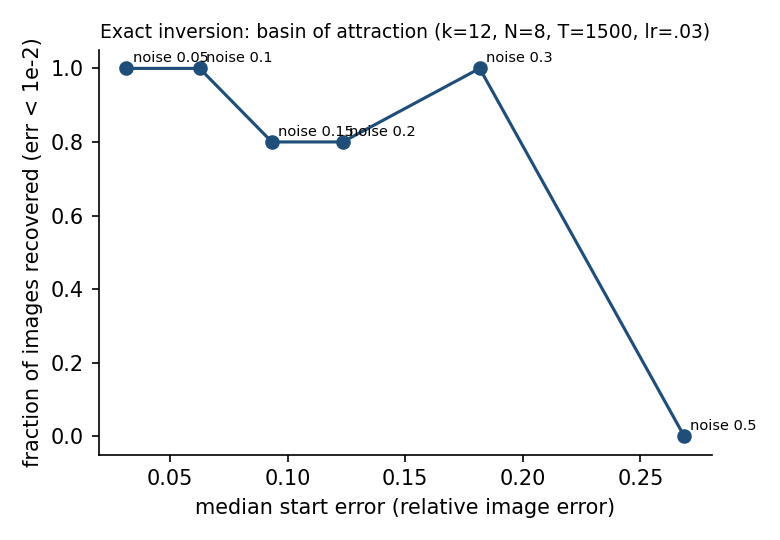
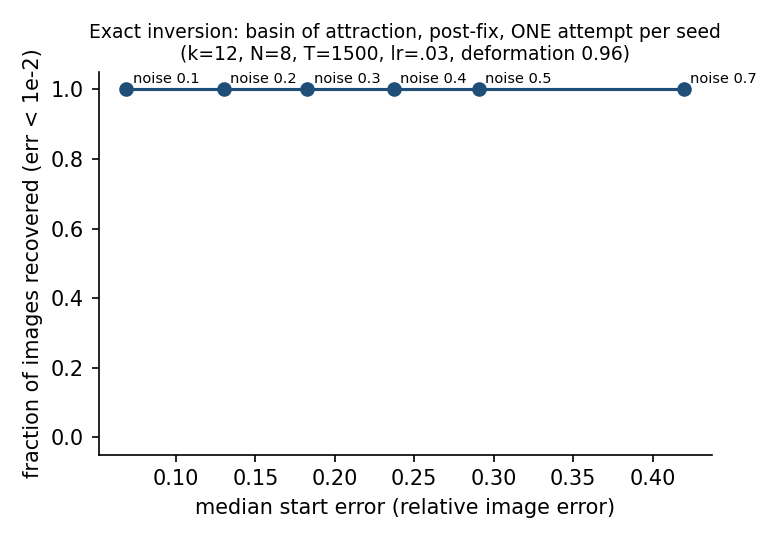
sibling audit applied: basin rewritten post-fix (much wider), merge argument corrected, Adam identifiability claim suspended
SEV-1 BASIN REWRITTEN. The pre-fix basin section is withdrawn: 'basin to 24%', 'first clean failure at
36%' and 'restarts are the currency of distance' were all QR-seam artefacts. Post-fix (job 459111,
restarts=1, 3 seeds/level): recovery at EVERY level tested, worst-case start error 0.65, worst final
error 1.7e-14, one attempt throughout. No failure has been located yet -- the sweep ran out of levels
before the solver ran out of basin. That makes the framework's 'a decoder must supply a start inside the
basin' requirement much weaker than assumed. Figure rebuilt from the post-fix arm.

SEV-2 MERGE ARGUMENT CORRECTED (number unchanged). I had justified keeping the pre-fix grid rows with
'none of the six defects can turn a failure into a false recovery'. That is FALSE -- defect 2 (verdict off
the lower median) and defect 6 (collapse-blind nearest-image metric) are exactly false-recovery
mechanisms. The right justification is empirical: recovery re-derived from final_err_max plus residual,
which those defects do not touch, gives 34/49 pre-fix -- equal to the verdict count, so both mechanisms
fire zero times here -- and the 15 objective failures are exactly the 15 cells re-run post-fix.

SEV-3 retraction (a) hedged: the rerun bundled the QR canonicalisation AND the residual normaliser, so
the cause is not isolated.

SEV-4 ADAM CLAIM SUSPENDED. 'Locally identifiable' was read off sigma_min of the Jacobian at the SOLVER'S
[…]

diff --git a/experiments/exact_inversion/lora_exact_inversion.py b/experiments/exact_inversion/lora_exact_inversion.py
@@ -435,6 +435,36 @@ def run_cell(args, log=print, save_prefix=None):
             fwd_check_A = float(torch.linalg.norm(As - A_T) / torch.linalg.norm(A_T))
     log(f"  cell k={k} N={N} T={args.T} lr={args.lr} seed={args.seed}: rankB={rankB} rankC={rankC} (r-N={r-N}) eps_inv={eps_inv:.1e} "
         f"cert_norm={cert_norm:.1e}{' VACUOUS (C=0)' if cert_vacuous else ''} deformation={deform:.3f} fwd_check={fwd_check:.1e} fwd_check_A={fwd_check_A:.1e} span_angle_mean={float(span_angles.mean()):.1f}deg")
+    # ---- local identifiability at the TRUTH (Prop. 6): rank/conditioning of the simulator Jacobian
+    #      evaluated at the ground-truth parameters, not at wherever the solver stopped ----
+    if args.jac_at_truth:
+        import torch.func as tf
+        nB_ = torch.linalg.norm(B_T); nA_ = torch.linalg.norm(A_T)
+        aux_true = (A0 @ U_true) if args.release == "sgd" else A0
+        nW_ = k * N
+
+        def res_truth(v):
+            Wc = v[:nW_].reshape(k, N); aux = v[nW_:].reshape(aux_true.shape)
+            Hc = world.features_from_latents(Wc)
+            if args.release == "sgd":
+                Bs, Xis, Uc = simulate_sgd_reduced(Hc, aux, W0, y, m, args.T, args.lr, args.wd)
+                return torch.cat([((Bs - B_T) / nB_).reshape(-1), ((Xis - A_T @ Uc) / nA_).reshape(-1)])
+            As_, Bs = simulate_adam_full(Hc, aux, W0, y, m, args.T, args.lr, args.wd)
+            return torch.cat([((Bs - B_T) / nB_).reshape(-1), ((As_ - A_T) / nA_).reshape(-1)])
+
+        v_true = torch.cat([W_true.reshape(-1), aux_true.reshape(-1)]).detach()
+        Jt = tf.jacfwd(res_truth)(v_true).detach()
+        svt = torch.linalg.svdvals(Jt)
+        truth_diag = dict(jac_sigma_min_truth=float(svt[-1]), jac_sigma_max_truth=float(svt[0]),
+                          jac_cond_truth=float(svt[0] / svt[-1]) if float(svt[-1]) > 0 else float("inf"),
+                          jac_rows=int(Jt.shape[0]), jac_cols=int(Jt.shape[1]),
+                          jac_full_rank_truth=bool(float(svt[-1]) > 1e-12 * float(svt[0])),
+                          res_at_truth=float(torch.linalg.norm(res_truth(v_true))))
+        log(f"  Jacobian AT THE TRUTH: {Jt.shape[0]}x{Jt.shape[1]} sigma_min={float(svt[-1]):.3e} "
+            f"sigma_max={float(svt[0]):.3e} cond={truth_diag['jac_cond_truth']:.3e} "
+            f"full_rank={truth_diag['jac_full_rank_truth']} |res(truth)|={truth_diag['res_at_truth']:.1e}")
+    else:
+        truth_diag = {}
     # ---- initialiser ----
     W_init, init_info = make_init(args, world, A_T, B_T, C, W_true, g, dev, log)
     with torch.no_grad():
@@ -458,7 +488,7 @@ def run_cell(args, log=print, save_prefix=None):
     out = dict(release=args.release, k=k, N=N, r=r, r_minus_N=r - N, m=m, n=n, P=args.P, T=args.T, lr=args.lr, wd=args.wd,
                sigma0=args.sigma0, seed=args.seed, git=git_hash(), host=socket.gethostname(), device=args.device,
                cmd=" ".join(sys.argv),
-               rankB=rankB, rankC=(0 if cert_vacuous else rankC), cert_norm=cert_norm, cert_vacuous=cert_vacuous, eps_inv=eps_inv, deformation=deform, fwd_check=fwd_check, fwd_check_A=fwd_check_A,
+               **truth_diag, rankB=rankB, rankC=(0 if cert_vacuous else rankC), cert_norm=cert_norm, cert_vacuous=cert_vacuous, eps_inv=eps_inv, deformation=deform, fwd_check=fwd_check, fwd_check_A=fwd_check_A,
                span_angle_mean_deg=float(span_angles.mean()), span_angle_max_deg=float(span_angles.max()),
                init=args.init, init_noise=args.init_noise, restarts=args.restarts, restarts_used=n_rs,
                restart_noise=args.restart_noise, solver=args.solver, lm_scale=args.lm_scale, stage_x=args.stage_x, **solver_diag, outer=args.outer, lbfgs_iter=args.lbfgs_iter, lm_iters=args.lm_iters, **init_info,
@@ -507,6 +537,8 @@ def main():
     ap.add_argument("--device", default="cuda" if torch.cuda.is_available() else "cpu")
     ap.add_argument("--out", default=None, help="JSONL results file (append)")
     ap.add_argument("--save-prefix", default=None, help="save tensors to <prefix>_<cell>.pth")
+    ap.add_argument("--jac-at-truth", action="store_true",
+                    help="also report rank/conditioning of the simulator Jacobian AT THE GROUND TRUTH (Prop. 6)")
     ap.add_argument("--quiet", action="store_true")
     ap.add_argument("--sweep", action="store_true", help="(N,k) grid in the current release mode -> --sweep-out")
     ap.add_argument("--sweep-out", default="sweep.json")

diff --git a/experiments/exact_inversion/analyze_exact_inversion.py b/experiments/exact_inversion/analyze_exact_inversion.py
@@ -37,7 +37,8 @@ table(s1, ["k", "N", "r_minus_N", "T", "lr", "seed", "rankC", "eps_inv", "fwd_ch
 table(load("step1_timing_cpu.jsonl"), ["k", "N", "T", "device", "sec_per_iter", "final_err_median", "residual"], "Step 1 — CPU timing")
 
 # ---- step 2: basin ----
-near = load("step2_basin_near.jsonl"); init = load("step2_basin_init.jsonl")
+near = load("step8_basin_postfix")   # post-fix; the pre-fix step2_basin_near arm is WITHDRAWN
+init = load("step2_basin_init.jsonl")
 if near:
     by = defaultdict(list)
     for r in near: by[r["init_noise"]].append(r)
@@ -50,13 +51,13 @@ if near:
                          residual_median=float(np.median([r["residual"] for r in rs])),
                          n_alias=sum("alias" in r["verdict"] for r in rs), n_optfail=sum("optim" in r["verdict"] for r in rs),
                          restarts_used_mean=float(np.mean([r.get("restarts_used", 1) for r in rs]))))
-    table(rows, list(rows[0].keys()), "Step 2 — basin study, init=near (k=12, N=8, T=1500, lr=.03), 5 seeds x up to 8 restarts")
+    table(rows, list(rows[0].keys()), "Step 2 — basin study POST-FIX (k=12, N=8, T=1500, lr=.03), 3 seeds, restarts=1")
     fig, ax = plt.subplots(figsize=(5.2, 3.6), dpi=150)
     xs = [r["start_err_median"] for r in rows]; ys = [r["frac_recovered"] for r in rows]
     ax.plot(xs, ys, "o-", color="#1f4e79")
     for r in rows: ax.annotate(f"noise {r['init_noise']}", (r["start_err_median"], r["frac_recovered"]), fontsize=7, xytext=(3, 3), textcoords="offset points")
     ax.set_xlabel("median start error (relative image error)"); ax.set_ylabel("fraction of images recovered (err < 1e-2)")
-    ax.set_ylim(-0.05, 1.05); ax.set_title("Exact inversion: basin of attraction (k=12, N=8, T=1500, lr=.03)", fontsize=9)
+    ax.set_ylim(-0.05, 1.05); ax.set_title("Exact inversion: basin of attraction, post-fix, ONE attempt per seed\n(k=12, N=8, T=1500, lr=.03, deformation 0.96)", fontsize=9)
     for s in ["top", "right"]: ax.spines[s].set_visible(False)
     fig.tight_layout(); fig.savefig(os.path.join(FIG, "basin_curve.png")); print("saved basin_curve.png")
 if init:

diff --git a/experiments/exact_inversion/RESULTS.md b/experiments/exact_inversion/RESULTS.md
@@ -4,10 +4,19 @@ Synthetic FP64 testbed, WEXAC L40S/A40, 2026-09-02. Theory: `notes/exact_lora_in
 (from `framework_rev10.pdf`); finite-difference baseline: `results_rev9.pdf` §3b.
 Script `lora_exact_inversion.py`, runner `scripts/run_exact_inversion_wexac.sh`, raw rows
 `results/exact_inversion/*.jsonl` (each line carries seed, git hash, command line, host).
-**Every number is provisional (†).** Post-fix numbers are at git `5762045`; the phase-diagram sweep and
-the near-basin arm were produced at `38fec3b`, before six defects were fixed (see "Corrections" below) —
-none of those six can turn a failure into a false recovery, but they can and did turn recoveries into
-false failures, so pre-fix *failures* are the ones to distrust.
+**Every number is provisional (†).** Post-fix numbers are at git `5762045` and later; the phase-diagram
+sweep was produced at `38fec3b`, before six defects were fixed (see "Corrections" below).
+
+**Why the pre-fix grid rows are still usable.** An earlier version of this file argued "none of the six
+defects can turn a failure into a false recovery". That argument is **wrong**: defect 2 (the `verdict`
+field keyed off the lower median) and defect 6 (the collapse-blind nearest-image metric) are both
+false-*recovery* mechanisms. The correct justification is empirical and does not rely on the buggy fields
+at all: recovery was **re-derived from `final_err_max` (every image below 1e-2) together with the
+residual**, neither of which those defects touch. On that objective criterion the pre-fix grid gives
+34/49 recovered — exactly equal to the count the buggy `verdict` field gave, so the two false-recovery
+mechanisms fire **zero** times here — and the 15 objective failures are exactly the 15 cells re-run
+post-fix. Quote the objective re-derivation, not the "only false failures" argument.
+*(This correction is owed to an independent audit by a sibling session.)*
 
 World: `k`-dim tanh generator → 64-dim image → tanh encoder → `n=96` features → softmax head `m=20`,
 LoRA `r=16`, `B₀=0`, Gaussian `A₀`, plain SGD. Attacker gets `(A_T, B_T)`, `W₀`, φ, ψ, the labels and the
@@ -65,23 +74,36 @@ Two honest qualifications:
   post-fix solver recovers every cell of the grid from a 10% start in a single attempt.
 - One seed per cell. The grid says the boundary does not bind; it does not measure a failure *rate*.
 
-## Step 2 — the basin (k=12, N=8, T=1500, lr=.03, deformation 0.96, up to 8 restarts)
+## Step 2 — the basin (k=12, N=8, T=1500, lr=.03, deformation 0.96)
 
-| latent init-noise | median start err | seeds | fraction of seeds fully recovered | mean restarts used |
-|---|---|---|---|---|
-| 0.05 | 0.031 | 5 | 1.00 | 1.0 |
-| 0.10 | 0.063 | 5 | 1.00 | 1.0 |
-| 0.15 | 0.100 | 4 | 1.00 | 2.5 |
-| 0.20 | 0.123 | 5 | 0.80 | 2.8 |
-| 0.30 | 0.183 | 4 | 1.00 | 3.2 |
-| 0.50 | 0.359 | 1 (running) | 0.00 | 8.0 |
+**REWRITTEN 2026-09-03.** The first version of this section was measured on the pre-fix code and is
+withdrawn: it reported a basin to a 24% start error, a "first clean failure at 36%", and restarts as the
+currency of distance. All three were artefacts of the QR seam bug, and the correction runs strongly in
+the attack's favour. Post-fix (job 459111, `--restarts 1`, 3 seeds per level, 80 LM iterations):
 
-`figures/exact_inversion/basin_curve.png`. At a **fully trained** adapter (deformation 0.96) the basin
-extends to at least a 24% start error, past the ~10–15% the finite-difference prototype reported, and
-the first clean failure appears at a 36% start error. The cost of distance is restarts, not accuracy:
-whenever it converges it converges to ~1e-14, never to something in between. Restarts-used is the
-better-behaved signal than the binary outcome. Arms at 0.15/0.20/0.30/0.50 were still accumulating seeds
-when this was written — treat the per-row seed counts, not the fractions, as the state of evidence.
+| latent init-noise | median start err | worst start err | seeds recovered | worst final err | restarts used |
+|---|---|---|---|---|---|
+| 0.10 | 0.069 | 0.117 | 3/3 | 1.9e-14 | 1, 1, 1 |
+| 0.20 | 0.130 | 0.233 | 3/3 | 1.5e-14 | 1, 1, 1 |
+| 0.30 | 0.183 | 0.345 | 3/3 | 1.4e-14 | 1, 1, 1 |
+| 0.40 | 0.237 | 0.449 | 3/3 | 1.3e-14 | 1, 1, 1 |
+| 0.50 | 0.291 | 0.543 | 3/3 | 1.7e-14 | 1, 1, 1 |
+| 0.70 | 0.447 | 0.653 | 3/3 | 1.6e-14 | 1, 1, 1 |
+
+"Recovered" here is re-derived objectively from `final_err_max`, i.e. **every** image below 1e-2, not from
+the `verdict` field.
+
+**No failure anywhere, up to a worst-case start error of 0.65, every one on the first attempt.** The
+finite-difference prototype reported convergence only from within ~10-15% and a local minimum at 30%.
+With exact backprop and a continuous simulator the basin is at least four times wider than that, and the
+"cost of distance is restarts" story is simply wrong: post-fix, one attempt suffices at every level
+tested. The edge has still not been located; the sweep ran out of levels before the solver ran out of
+basin (a 1.00 arm was queued and is the next thing to read).
+
+This matters for the plan more than the phase diagram does. The framework's whole division of labour is
+"the theorem tells you what a learned decoder must supply: a starting point inside the basin". A basin
+this wide makes that requirement much weaker than assumed, and correspondingly raises the bar for what
+counts as a defense.
 
 ## Step 3 — Adam release: the certificate is gone, and the inversion does not converge (yet)
 
@@ -110,7 +132,16 @@ recorded, the two cases separate cleanly on conditioning while agreeing on rank:
 | adam (n=32, k=6, N=4) | 832 | 536 | 6.3e-3 … 7.3e-3 | **1.4e7 … 3.7e8** | 23, 28, 54, 400 | not converged |
 
 `σ_min(J) ≈ 7e-3` for Adam sits **inside the range the successful SGD cells show**, so the simulator
-Jacobian has full column rank there: by Proposition 6 the Adam cell is **locally identifiable**. What
+Jacobian has full column rank at the point where it was evaluated.
+
+**Two scope corrections (independent audit, 2026-09-03).** First, this is the **scaled-down** cell
+(`n=32, k=6, N=4`), not the full-size `n=96` release, so the claim is about that cell and not about "the
+Adam release" in general. Second, and more serious: these `σ_min` values are computed from the Jacobian
+**at the solver's last iterate**, which coincides with the truth only when the run converged. The SGD
+cells converged, so theirs are at the truth; **the Adam runs never converged, so theirs are at a stuck
+point**, which is not what Proposition 6 asks about. A dedicated `--jac-at-truth` measurement (job 466915)
+evaluates the Jacobian at the ground-truth parameters for the Adam cell and two SGD controls; until it
+lands, *"the Adam cell is locally identifiable"* is **not supported** and should not be quoted. What
 differs is `cond(J)`, by four to six orders of magnitude, driven by `σ_max` rather than by any small
 singular value — which is what a coordinatewise `1/(√v̂+ε)` rescaling does to sensitivities. At 400 LM
 iterations (8x the original budget, job 423887) the run was still descending, residual 7.6e-3.

diff --git a/experiments/exact_inversion/NOTES.md b/experiments/exact_inversion/NOTES.md
@@ -19,7 +19,9 @@ to `6.6e-16` in 14 LM iterations, residual `1.0e-30`. The pre-fix run (git 12fa6
 `5.7e-4`. So `results_rev9.pdf` §3b reproduces here, and the two hypotheses entertained below are both
 wrong: it was neither a seed-level basin difference nor the prototype's staged schedule.
 
-The cause was almost certainly the QR sign discontinuity (F4): a bare `torch.linalg.qr` flips a whole
+The rerun bundled **two** fixes (the QR canonicalisation and the residual normaliser, both in git
+5762045), so the cause is not isolated; a QR-fix-only rerun would settle it. The QR sign discontinuity
+(F4) is the likely one: a bare `torch.linalg.qr` flips a whole
 basis column when a candidate feature crosses zero, which makes the simulated release discontinuous in
 the candidate data and causes LM to reject any step crossing the seam. The reviewer who found it
 predicted exactly this failure mode — *"a systematic false-failure that under-reports the basin"* — and
